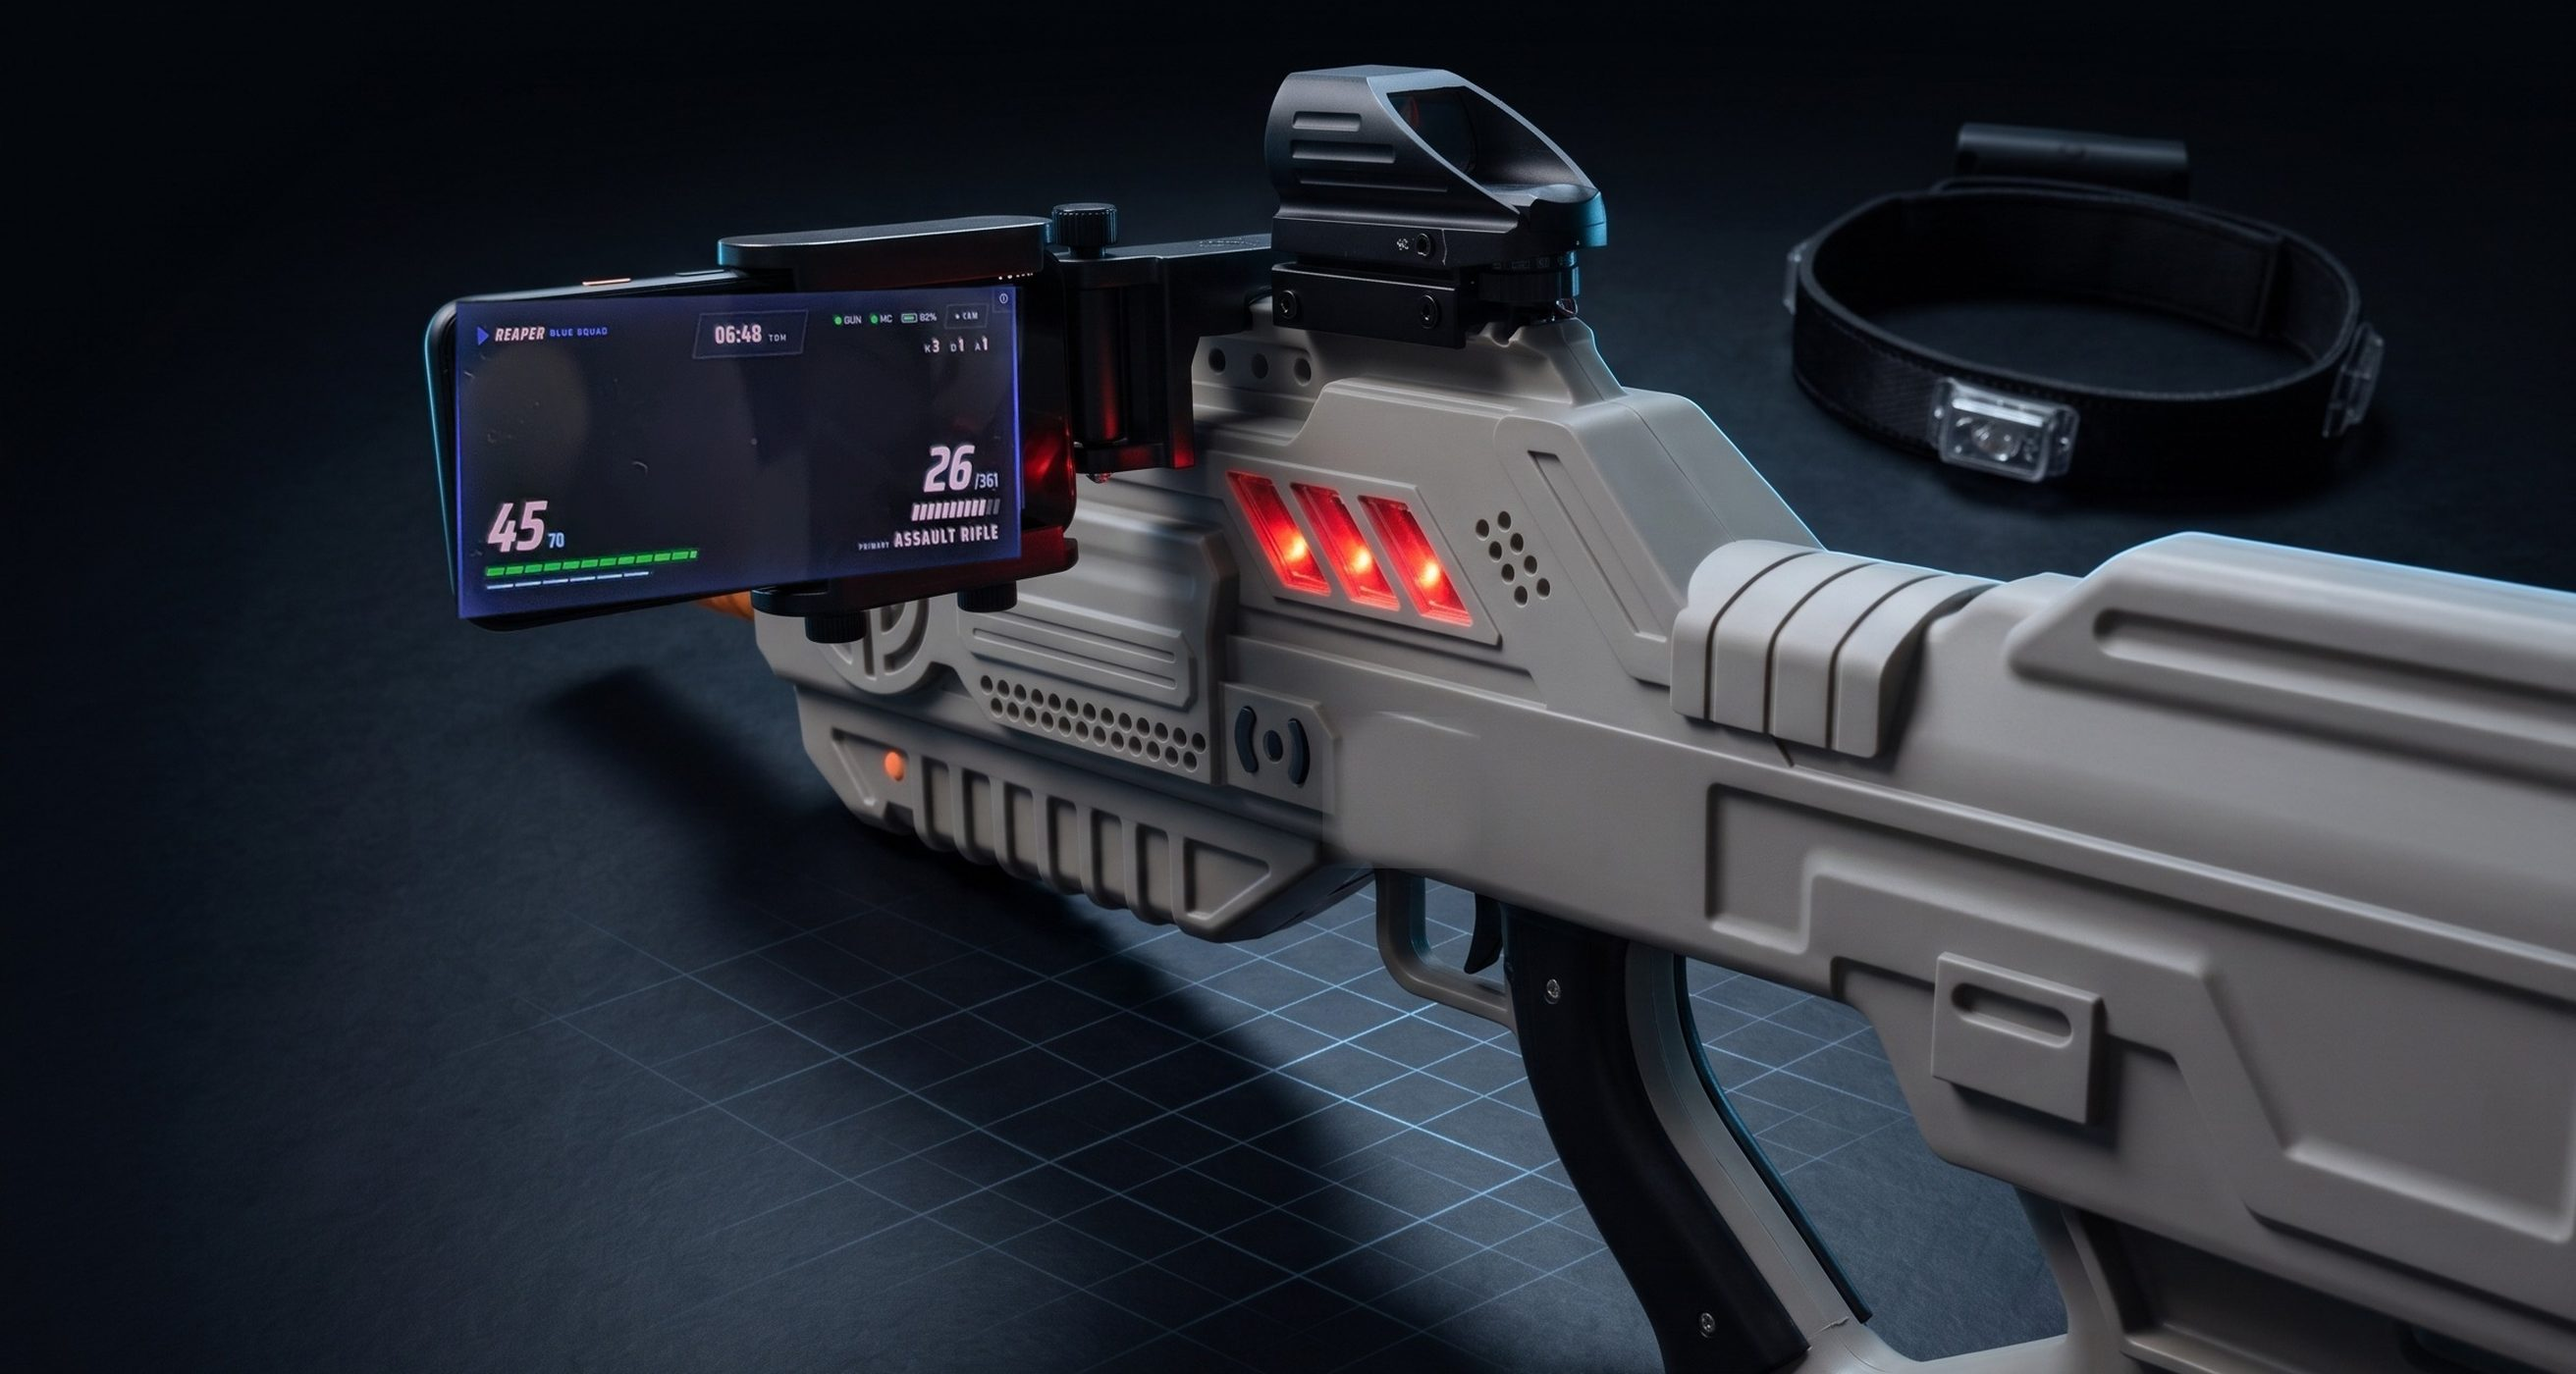
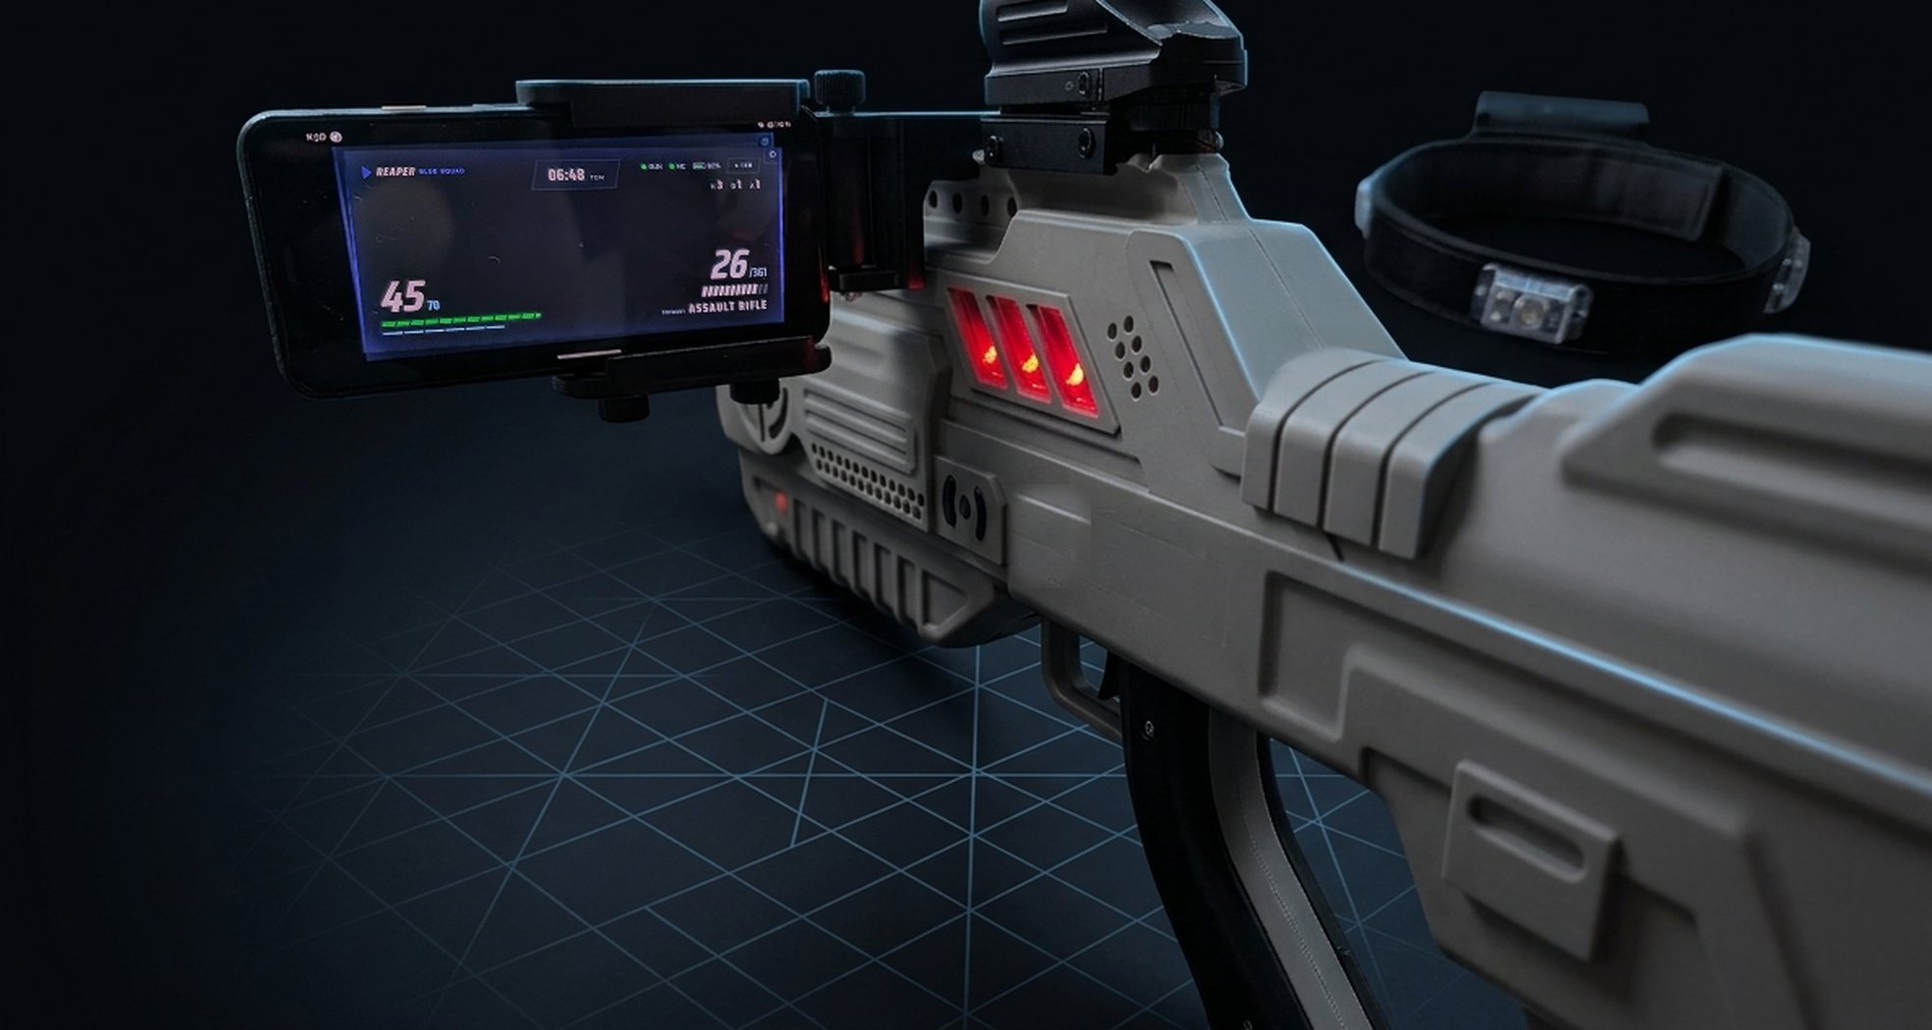
The hero photo is back with its real screen, and the kit gets its own section
Tony's new render, with the phone's real screen warped in from his photo, the invented logo cloned off and the
watermark cropped away. A photo after a section's copy renders whole now; the cleaned flat lay is "The kit"
and the share card.

Claude-Session: https://claude.ai/code/session_012CAfaDqjwKvhUWFJAy6Lsd

diff --git a/site/assets/site.css b/site/assets/site.css
@@ -419,6 +419,9 @@ figure { margin: 0; }
 .shot::after { bottom: -1px; right: -1px; border-bottom: 2px solid var(--accent); border-right: 2px solid var(--accent); }
 .shot img { display: block; width: 100%; height: auto; }
 .shot.wide { width: min(1312px, 100%); margin-top: clamp(20px, 3vw, 48px); }
+/* a photo shown whole inside a section: same column as a wide shot, no brackets */
+.feat .photo.wide { width: min(1312px, 100%); margin-top: clamp(20px, 3vw, 48px); }
+.feat .photo.wide img { display: block; width: 100%; height: auto; }
 .row { display: grid; gap: clamp(16px, 2.4vw, 32px); width: min(1312px, 100%); margin-top: clamp(20px, 3vw, 48px); }
 .row-2 { grid-template-columns: repeat(2, minmax(0, 1fr)); }
 .row-3 { grid-template-columns: repeat(3, minmax(0, 1fr)); }

diff --git a/docs/platform/index.md b/docs/platform/index.md
@@ -5,7 +5,7 @@ Open source software that turns stock Battle Company BRX taggers into a hosted g
 - [Get the app](/download/)
 - [Read the BRX manual](/manual/)
 
-![Mission Control's readiness board: eight taggers with headset, battery and link state](/shots/mc-armory.jpg) ![The Companion HUD on a phone: health, ammo and the match clock, weapons hot](/shots/hud-live.jpg)
+![A BRX tagger with a phone mounted on the rail, the HUD live, headset beside it](/photos/hero.jpg)
 
 ```data
 counts
@@ -88,6 +88,14 @@ brx-mcp also speaks MCP, the protocol AI agents use to call tools. So an agent c
 ![A BRX smart grenade in hill mode, lit](/photos/grenade.jpg)
 
 Set a BRX smart grenade to hill mode and it becomes a king-of-the-hill objective. The taggers already see its beacon, so possession is read off the player's own tagger. No base, no extra hardware, no firmware change. The same idea gives you respawn points: a spare phone works as one today, and a pocket station follows the same beacon design.
+
+## The kit
+
+### A tagger, a headset, a phone and a mount.
+
+Everything a player carries. The tagger and headset are stock Battle Company BRX. The phone is any Android with Bluetooth, running the Companion app. The mount is an ordinary rail phone clamp. The taggers stay exactly as they shipped.
+
+![The kit laid out: BRX tagger, headset, phone with the HUD, and the rail mount](/photos/kit.jpg)
 
 ## The BRX manual
 

diff --git a/docs/site/FORMAT.md b/docs/site/FORMAT.md
@@ -68,8 +68,8 @@ Three pages are landings, not doc pages: `docs/platform/index.md` (`/`), `docs/p
   into `site/shots/`; `mcp/tests/test_site_shots.py` fails when the UI source moves past them) or
   `/photos/<name>.jpg|svg` (staged photos in `site/photos/`). The build fails on an image that is not
   in either directory, and publishes every image content-hashed with its width and height.
-- A single `/photos/` image inside a section makes that section a full-bleed backdrop with the copy
-  over its lower third. In the hero it is the hero photo, and a `.jpg` hero doubles as the Open Graph
+- A single `/photos/` image that OPENS a section (before its lede) makes that section a full-bleed
+  backdrop with the copy over its lower third; a photo placed after the copy is shown whole. In the hero it is the hero photo, and a `.jpg` hero doubles as the Open Graph
   share image (a placeholder `.svg` never does).
 - A list whose items each begin with `**Bold lead.**` renders as a grid of captions.
 - A list of links renders as buttons.

diff --git a/docs/experiment-log/2026-09.md b/docs/experiment-log/2026-09.md
@@ -4574,6 +4574,11 @@ left corner (`hero-duo` in `landing.mjs`: a hero image paragraph with two shots)
 a photo back in is one line of markdown. Tony may reshoot and re-prompt later; the real-screen warp stays the
 method for any photo that shows the phone.
 
+**Hero, second reversal:** Tony's next Gemini render was good enough, so the photo is back: real screen warped
+in from the original, the invented logo cloned off, the watermark corner cropped away. A photo shown AFTER a
+section's copy now renders whole (only a photo that opens a section is a backdrop), which gave the landing a
+"The kit" section with the cleaned flat lay (same treatment) and a real `og.jpg` share card off it.
+
 **Photos landed the same afternoon.** Tony shot 20 frames on the sofa (picks 133902 hero, 134237 grenade, 134144
 flat lay); Gemini swapped the backgrounds. Two artefacts in the hero: the phone's HUD was regenerated as garbled
 text ("45TB", "26MIFE") and a "CASTLE" logo was invented on the receiver. Fix: the real `hud-live.jpg` frame
